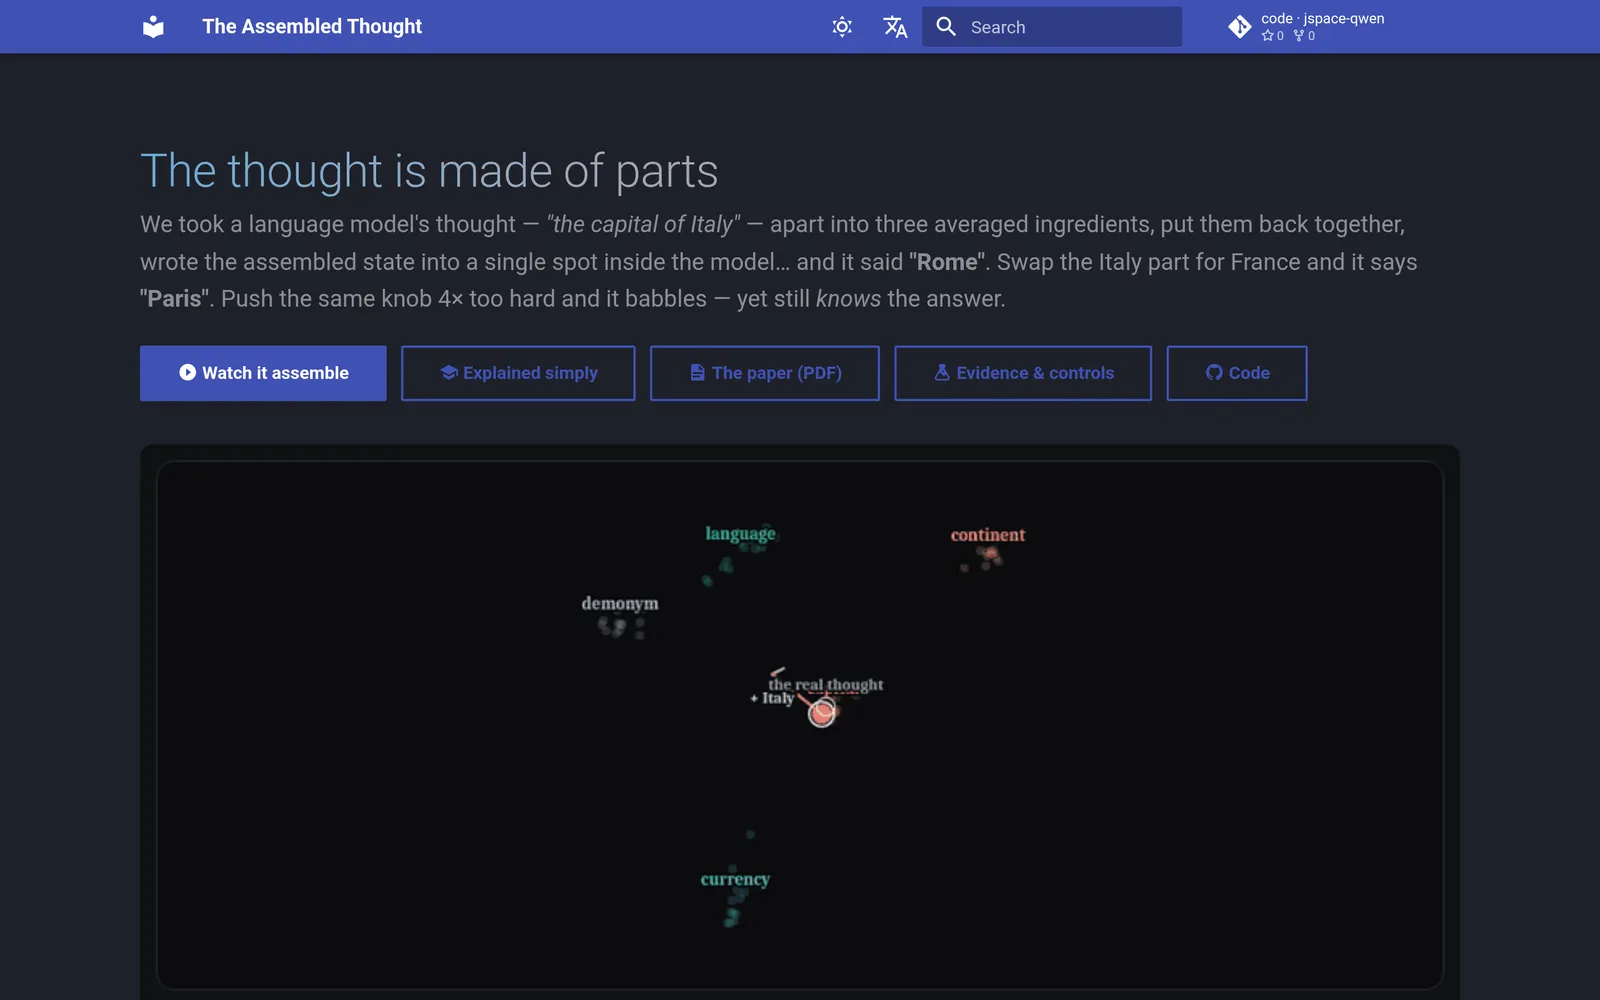
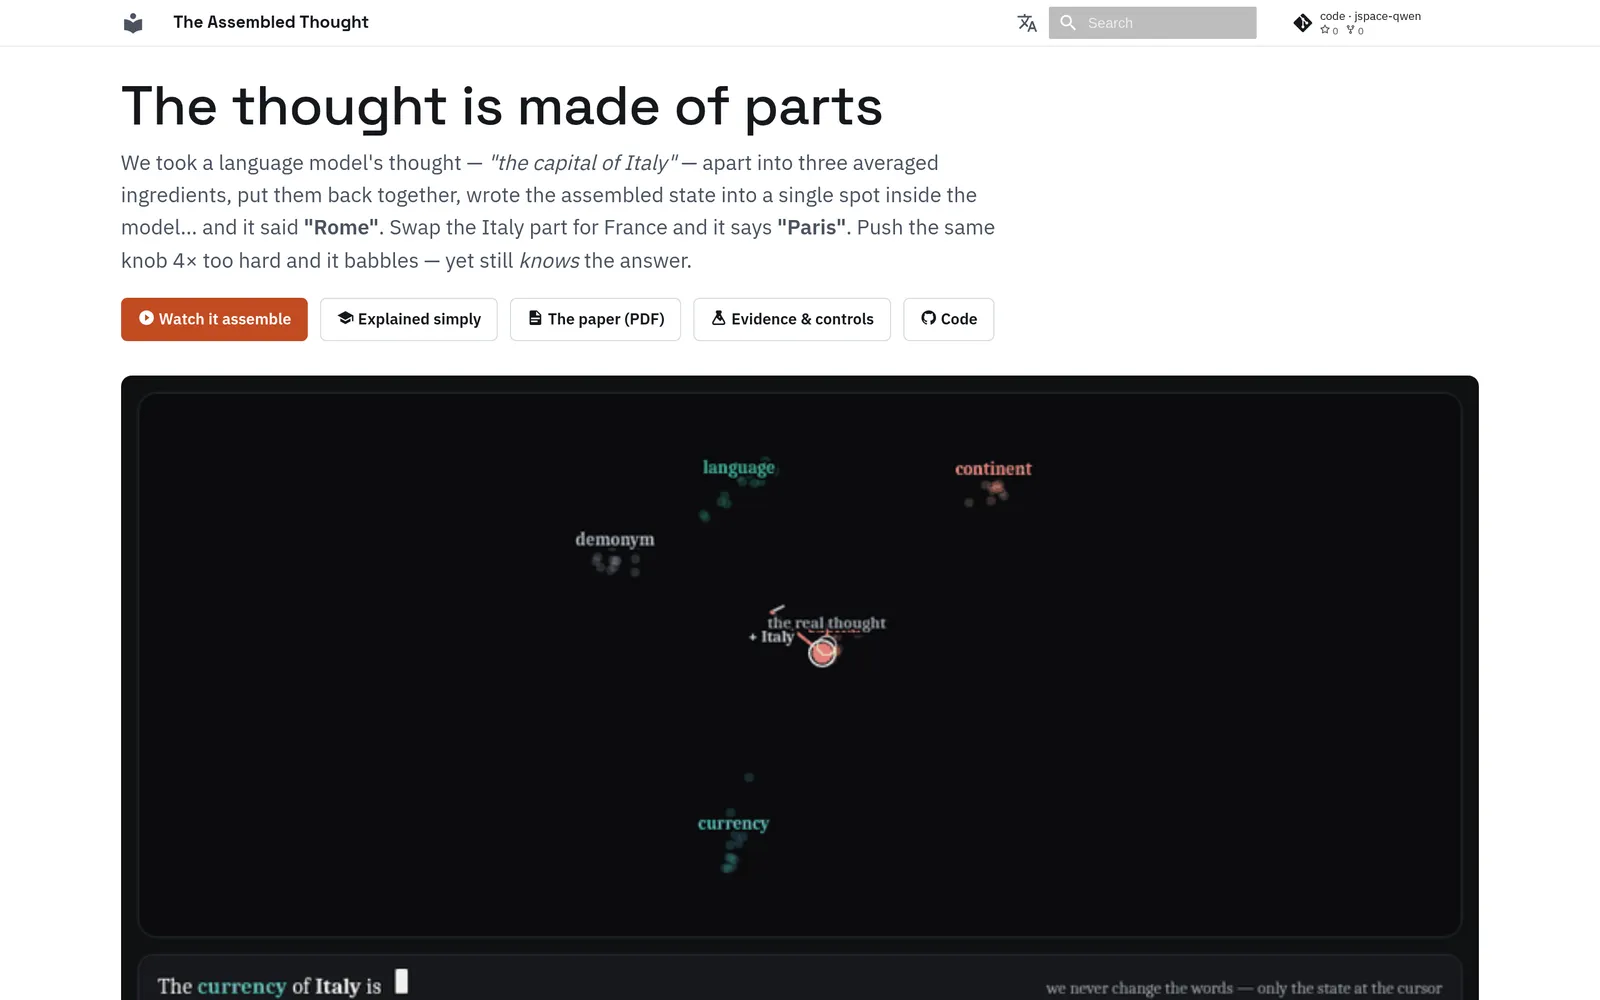
/research: bifurcar la página y bajar el titular a lo que hay
El hero prometía «evals y safety cases para IA agéntica en sistemas energéticos»
y abajo mostraba un paper sobre capital-de(Italia) y un curso. No hay ningún
eval en disco — el titular no tenía artefacto detrás.

Ahora la página abre por lo que el trabajo es, y el giro a energía queda en su
propia sección enunciado como dirección, con el salto declarado en vez de
disimulado: nada de lo que investiga hoy se aplica a una decisión de operación.
El argumento largo (los seis pilares, los cuatro escalones) vive en el sitio en
español y se linkea desde acá.

Tercera tarjeta: el cuaderno de laboratorio de jspace-qwen, que era el activo
más fuerte y no estaba linkeado desde ningún lado del embudo. Y residual-gauge,
recién publicado, entra como línea abierta sin sitio.

Capturas regeneradas después de deployar los tres sitios, que cambiaron de
identidad visual en el mismo pasaje.

diff --git a/src/pages/research.es.html b/src/pages/research.es.html
@@ -1,15 +1,15 @@
 <!--meta
 {
   "title": "Interpretabilidad y seguridad de IA — Matías Podeley",
-  "description": "Un paper original de interpretabilidad y el primer curso consolidado de interpretabilidad mecanicista en español. Hacia evals y safety cases para IA en infraestructura energética.",
+  "description": "Un paper original de interpretabilidad, el primer curso consolidado del tema en español, y un cuaderno de laboratorio abierto. Investigación independiente desde Buenos Aires.",
   "nav": "research"
 }
 -->
 
 <section class="hero wrap">
   <p class="kicker">Seguridad de IA · Interpretabilidad · Independiente</p>
-  <h1>La IA va a operar infraestructura energética. Alguien tiene que demostrar cuándo es segura.</h1>
-  <p class="hero-sub">Trabajo hacia evals y safety cases para IA agéntica en sistemas energéticos críticos — gasoductos, redes, reservorios — después de dieciocho años dentro de la industria. Abajo: un paper original y un curso.</p>
+  <h1>Interpretabilidad mecanicista, hecha desde afuera del campo y publicada con sus nulos.</h1>
+  <p class="hero-sub">Investigo qué hace un modelo de lenguaje por dentro. Hay un paper original enviado a BlackboxNLP 2026, el primer curso consolidado del tema en español, y un proyecto nuevo publicado antes de tener resultados. Vengo de dieciocho años en energía, y hacia ahí apunta esto.</p>
   <p class="hero-cta"><a class="btn btn--primary" href="mailto:mpodeley@gmail.com?subject=Research%20%E2%80%94%20podeley.ar%2Fresearch&amp;body=Hola%20Matias%2C%0A%0A">Escribime</a> <a class="link-plain" href="#casos">Ver el trabajo <span class="arw">↓</span></a></p>
 </section>
 
@@ -18,7 +18,7 @@
 <section class="pd-section wrap" id="casos">
   <div class="section-head">
     <p class="eyebrow">Trabajo</p>
-    <h2>Un paper y un curso.</h2>
+    <h2>Un paper, un curso y un cuaderno abierto.</h2>
   </div>
 
   <div class="cards">
@@ -26,18 +26,39 @@
     <article class="card">
       <figure class="shot"><img src="/assets/shots/assembled-thought.webp" width="1600" height="1000" loading="lazy" decoding="async" alt="Captura: demo interactiva del paper"></figure>
       <h3><a href="https://mpodeley.github.io/assembled-thought/" target="_blank" rel="noopener">Cómo un modelo arma una respuesta</a></h3>
-      <p class="pitch">Paper original: factorización operador–operando en modelos de lenguaje, con demo interactiva bilingüe. Enviado a BlackboxNLP 2026.</p>
+      <p class="pitch">El pensamiento de un modelo sobre un hecho se separa en piezas — la cosa y la pregunta que se le hace — y esas piezas alcanzan: se promedian, se recombinan, se escriben de vuelta adentro, y el modelo dice la respuesta. Tres modelos, dos dominios donde funciona y dos donde no. Con demo interactiva.</p>
       <p class="meta"><span class="proj">assembled-thought</span><span class="tag t-status">Paper</span><a href="https://github.com/mpodeley/assembled-thought" target="_blank" rel="noopener">Código →</a></p>
     </article>
 
     <article class="card">
       <figure class="shot"><img src="/assets/shots/interpretabilidad-mecanicista.webp" width="1600" height="1000" loading="lazy" decoding="async" alt="Captura: curso de interpretabilidad en español"></figure>
       <h3><a href="https://mpodeley.github.io/interpretabilidad-mecanicista/" target="_blank" rel="noopener">Interpretabilidad mecanicista, en español</a></h3>
-      <p class="pitch">El primer curso consolidado de interpretabilidad mecanicista en español: cómo funcionan por dentro los modelos de lenguaje grandes.</p>
+      <p class="pitch">El primer curso consolidado del tema en castellano: seis páginas de "qué es un token" a los grafos de atribución. Al lado, el mapa de los seis pilares de la seguridad de IA, diez líneas de investigación abiertas y recursos curados link por link.</p>
       <p class="meta"><span class="proj">interpretabilidad-mecanicista</span><a href="https://github.com/mpodeley/interpretabilidad-mecanicista" target="_blank" rel="noopener">Código →</a></p>
     </article>
 
+    <article class="card">
+      <figure class="shot"><img src="/assets/shots/jspace-qwen.webp" width="1600" height="1000" loading="lazy" decoding="async" alt="Captura: figuras del cuaderno de laboratorio"></figure>
+      <h3><a href="https://mpodeley.github.io/jspace-qwen/findings/" target="_blank" rel="noopener">La investigación mientras pasa, sin maquillar</a></h3>
+      <p class="pitch">El cuaderno de laboratorio: 989 líneas en orden cronológico con los experimentos, los bugs de medición que encontré construyendo, y la réplica que no replicó bajo controles y de la que salió el paper. Cada número se recomputa desde los artefactos.</p>
+      <p class="meta"><span class="proj">jspace-qwen</span><a href="https://github.com/mpodeley/jspace-qwen" target="_blank" rel="noopener">Código →</a></p>
+    </article>
+
   </div>
+
+  <p class="aside-link">Lo último, todavía sin resultados: <a href="https://github.com/mpodeley/residual-gauge" target="_blank" rel="noopener">residual-gauge</a> — importar una base para el estado interno desde una simetría de la tarea, con los umbrales preregistrados antes de correr nada.</p>
+</section>
+
+<div class="rule" role="presentation"></div>
+
+<section class="pd-section wrap" id="hacia-donde">
+  <div class="section-head">
+    <p class="eyebrow">Hacia dónde va</p>
+    <h2>La seguridad de IA va a llegar a la energía. Todavía no llegó.</h2>
+    <p class="intro">El uso de modelos frontera por fuera de los controles ya está medido dentro de organizaciones de infraestructura crítica. Cuando los agentes pasen de asesorar a actuar sobre un ducto o una red, alguien va a tener que demostrar cuándo eso es seguro. Vengo de dieciocho años adentro de esa industria y me parece el lugar donde esto termina.</p>
+  </div>
+  <p class="bio-text">Lo que no puedo afirmar: nada de lo que investigo hoy se aplica a una decisión de operación. Mis experimentos separan "Italia" de "capital-de" en el estado interno de un modelo chico, en inglés, sobre relaciones factuales de juguete. Entre eso y auditar a un agente con autoridad sobre un ducto hay un salto que prefiero enunciar antes que disimular.</p>
+  <p class="aside-link">Los seis pilares de la seguridad de IA, dónde cae la interpretabilidad entre ellos, y los cuatro escalones que faltan para cerrar ese salto: <a href="https://mpodeley.github.io/interpretabilidad-mecanicista/seguridad/" target="_blank" rel="noopener">el mapa completo</a>.</p>
 </section>
 
 <div class="rule" role="presentation"></div>

diff --git a/src/pages/research.en.html b/src/pages/research.en.html
@@ -1,15 +1,15 @@
 <!--meta
 {
   "title": "AI interpretability & safety — Matías Podeley",
-  "description": "An original interpretability paper and the first consolidated Spanish-language mech-interp course. Toward evals and safety cases for AI acting inside energy infrastructure.",
+  "description": "An original interpretability paper, the first consolidated Spanish-language course on the subject, and an open lab notebook. Independent research from Buenos Aires.",
   "nav": "research"
 }
 -->
 
 <section class="hero wrap">
   <p class="kicker">AI safety · Interpretability · Independent</p>
-  <h1>AI will operate energy infrastructure. Someone has to show when it's safe.</h1>
-  <p class="hero-sub">I work toward evals and safety cases for agentic AI in critical energy systems — pipelines, grids, reservoirs — after eighteen years inside the industry. Below: one original paper and one course.</p>
+  <h1>Mechanistic interpretability, done from outside the field and published with its null results.</h1>
+  <p class="hero-sub">I study what a language model does on the inside. There is an original paper submitted to BlackboxNLP 2026, the first consolidated Spanish-language course on the subject, and a new project published before it has results. I come from eighteen years in energy, and that is where this points.</p>
   <p class="hero-cta"><a class="btn btn--primary" href="mailto:mpodeley@gmail.com?subject=Research%20%E2%80%94%20podeley.ar%2Fresearch&amp;body=Hi%20Matias%2C%0A%0A">Email me</a> <a class="link-plain" href="#casos">See the work <span class="arw">↓</span></a></p>
 </section>
 
@@ -18,7 +18,7 @@
 <section class="pd-section wrap" id="casos">
   <div class="section-head">
     <p class="eyebrow">Work</p>
-    <h2>One paper and one course.</h2>
+    <h2>A paper, a course, and an open notebook.</h2>
   </div>
 
   <div class="cards">
@@ -26,18 +26,39 @@
     <article class="card">
       <figure class="shot"><img src="/assets/shots/assembled-thought.webp" width="1600" height="1000" loading="lazy" decoding="async" alt="Screenshot: interactive paper demo"></figure>
       <h3><a href="https://mpodeley.github.io/assembled-thought/" target="_blank" rel="noopener">How a model builds an answer</a></h3>
-      <p class="pitch">Original paper: operator–operand factorization in language models, with a bilingual interactive demo. Submitted to BlackboxNLP 2026.</p>
+      <p class="pitch">A model's thought about a fact splits into parts — the thing, and the question asked of it — and those parts suffice: average them, recombine them, write them back inside, and the model speaks the answer. Three models, two domains where it works and two where it provably doesn't. Interactive demo included.</p>
       <p class="meta"><span class="proj">assembled-thought</span><span class="tag t-status">Paper</span><a href="https://github.com/mpodeley/assembled-thought" target="_blank" rel="noopener">Code →</a></p>
     </article>
 
     <article class="card">
       <figure class="shot"><img src="/assets/shots/interpretabilidad-mecanicista.webp" width="1600" height="1000" loading="lazy" decoding="async" alt="Screenshot: interpretability course in Spanish"></figure>
       <h3><a href="https://mpodeley.github.io/interpretabilidad-mecanicista/" target="_blank" rel="noopener">Mechanistic interpretability, in Spanish</a></h3>
-      <p class="pitch">The first consolidated mechanistic-interpretability course in Spanish: how large language models work on the inside.</p>
+      <p class="pitch">The first consolidated course on the subject in Spanish: six pages from "what is a token" to attribution graphs. Alongside it, a map of the six pillars of AI safety, ten open research lines, and resources curated link by link.</p>
       <p class="meta"><span class="proj">interpretabilidad-mecanicista</span><a href="https://github.com/mpodeley/interpretabilidad-mecanicista" target="_blank" rel="noopener">Code →</a></p>
     </article>
 
+    <article class="card">
+      <figure class="shot"><img src="/assets/shots/jspace-qwen.webp" width="1600" height="1000" loading="lazy" decoding="async" alt="Screenshot: lab notebook figures"></figure>
+      <h3><a href="https://mpodeley.github.io/jspace-qwen/findings/" target="_blank" rel="noopener">The research as it happened, unpolished</a></h3>
+      <p class="pitch">The lab notebook: 989 lines in chronological order with the experiments, the measurement bugs I hit while building, and the replication that died under matched controls and turned into the paper. Every number recomputes from the artifacts.</p>
+      <p class="meta"><span class="proj">jspace-qwen</span><a href="https://github.com/mpodeley/jspace-qwen" target="_blank" rel="noopener">Code →</a></p>
+    </article>
+
   </div>
+
+  <p class="aside-link">The newest one, still without results: <a href="https://github.com/mpodeley/residual-gauge" target="_blank" rel="noopener">residual-gauge</a> — importing a basis for the internal state from a symmetry the task already has, with thresholds pre-registered before anything ran.</p>
+</section>
+
+<div class="rule" role="presentation"></div>
+
+<section class="pd-section wrap" id="hacia-donde">
+  <div class="section-head">
+    <p class="eyebrow">Where this is going</p>
+    <h2>AI safety will reach energy. It hasn't yet.</h2>
+    <p class="intro">Frontier-model use outside sanctioned controls is already measured inside critical-infrastructure organizations. Once agents move from advising to acting on a pipeline or a grid, someone will have to show when that is safe. I spent eighteen years inside that industry, and it strikes me as where this ends up.</p>
+  </div>
+  <p class="bio-text">What I cannot claim: nothing I research today applies to an operating decision. My experiments separate "Italy" from "capital-of" in the internal state of a small model, in English, over toy factual relations. Between that and auditing an agent with authority over a pipeline there is a gap I would rather state than paper over.</p>
+  <p class="aside-link">The six pillars of AI safety, where interpretability sits among them, and the four rungs still missing to close that gap: <a href="https://mpodeley.github.io/interpretabilidad-mecanicista/seguridad/" target="_blank" rel="noopener">the full map</a> (in Spanish).</p>
 </section>
 
 <div class="rule" role="presentation"></div>
